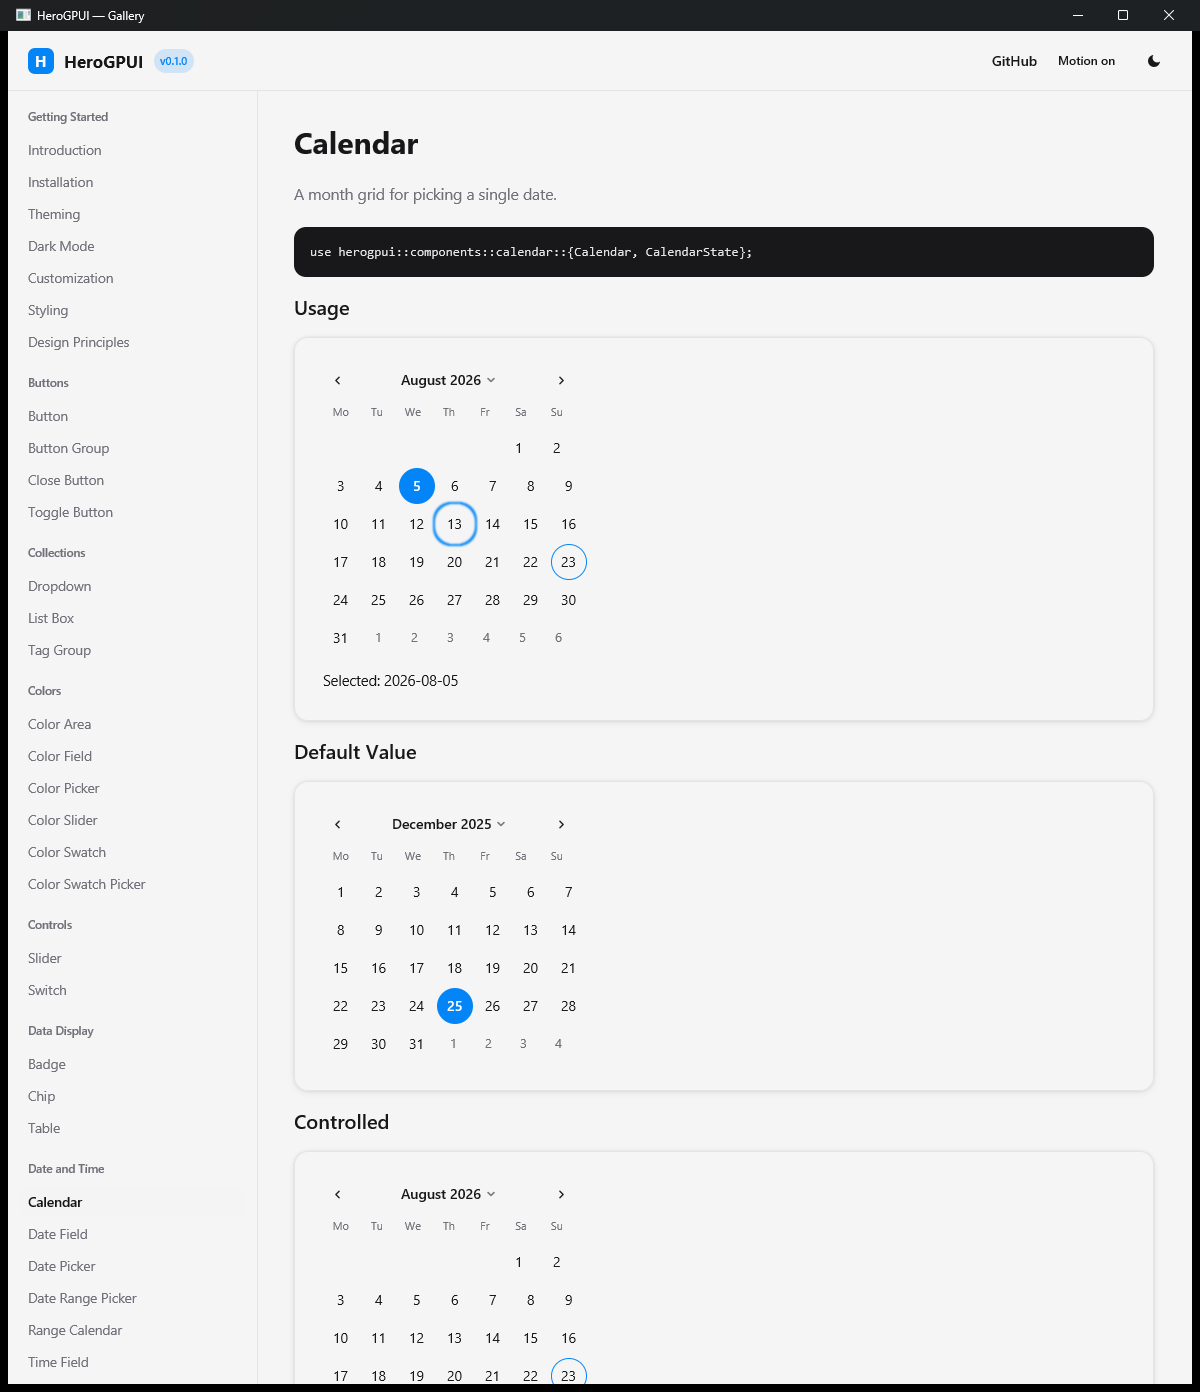
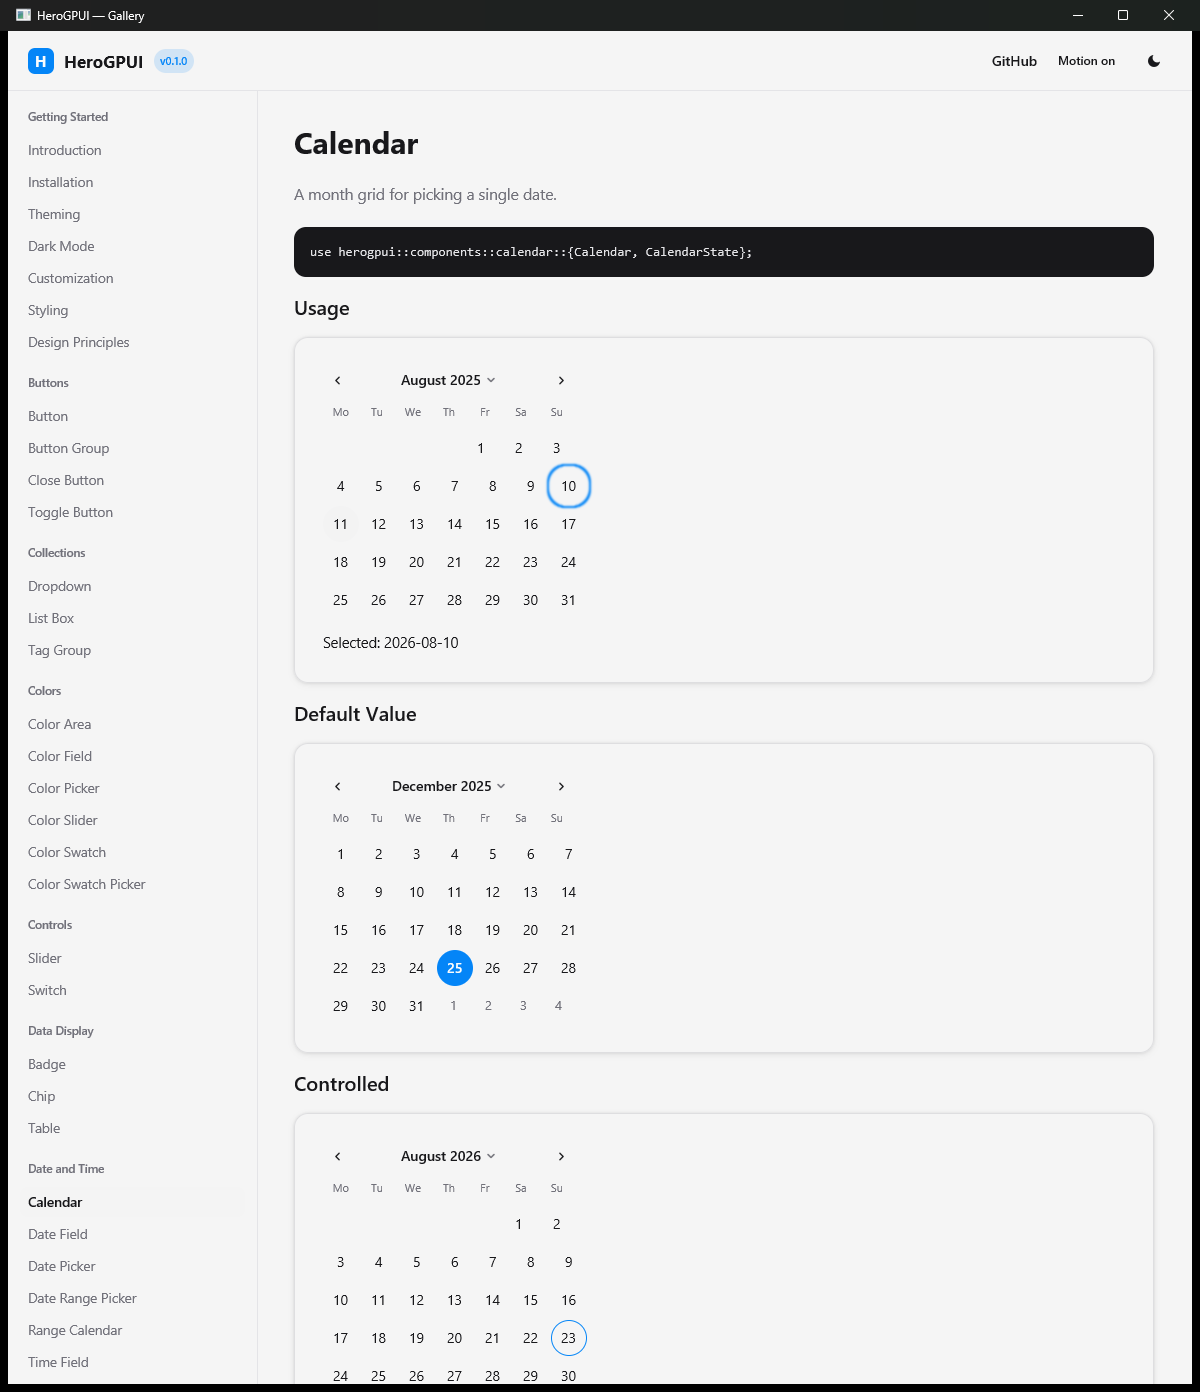
Move the calendar grid with its keyboard cursor, and page by year
Page Up moved the calendar's *cursor* and nothing else: the grid draws the
month the state's anchor points at, so paging past the month boundary walked an
invisible caret while August stayed on screen. Both calendars now move the
anchor with the cursor, which is React Aria keeping the focused date visible.

Shift+Page Up and Page Down page by a year, and they exposed a second bug:
`bump_month` takes a *direction*, not a count, so it stepped a single month
whatever the magnitude -- shift+Page Up moved from August 2026 to July 2026.
`add_months` counts in months from year zero, wrapping in one place, with tests
for both directions and the day clamp (31 March back one month is 28 February).

Verified by driving the app: Page Down moves the grid to September 2026, and
shift+Page Up to August 2025.

diff --git a/crates/herogpui-components/src/calendar.rs b/crates/herogpui-components/src/calendar.rs
@@ -145,13 +145,28 @@ fn prev_month(y: i32, m: u32) -> (i32, u32) {
     }
 }
 
-/// Steps a (year, month) pair by ±1.
+/// Steps a (year, month) pair by ±1. `dir` is a *direction*, not a count.
 pub fn bump_month(y: i32, m: u32, dir: i32) -> (i32, u32) {
     if dir >= 0 {
         next_month(y, m)
     } else {
         prev_month(y, m)
     }
+}
+
+/// The (year, month) `delta` months away, for any size of `delta`.
+///
+/// `bump_month` reads its argument as a direction and moves one month whatever
+/// the magnitude, which made shift+Page Up move a single month instead of a
+/// year. Counting in months from year zero keeps the wrap arithmetic in one
+/// place.
+pub fn add_months(year: i32, month: u32, delta: i32) -> (i32, u32) {
+    let total = i64::from(year) * 12 + i64::from(month) - 1 + i64::from(delta);
+    #[allow(clippy::cast_possible_truncation)]
+    let y = total.div_euclid(12) as i32;
+    #[allow(clippy::cast_possible_truncation, clippy::cast_sign_loss)]
+    let m = total.rem_euclid(12) as u32 + 1;
+    (y, m)
 }
 
 /// English month name for 1–12.
@@ -472,7 +487,7 @@ impl Calendar {
 /// `date` a month away, clamped to the target month's length -- 31 January plus
 /// a month is the end of February, not the 31st.
 pub(crate) fn month_step(date: Date, delta: i32) -> Date {
-    let (year, month) = bump_month(date.year, date.month, delta);
+    let (year, month) = add_months(date.year, date.month, delta);
     Date::new(year, month, date.day.min(days_in_month(year, month)))
 }
 
@@ -989,6 +1004,7 @@ impl RenderOnce for Calendar {
                 let from = *held.read(cx);
                 let at = from.unwrap_or(start);
                 let key = event.keystroke.key.as_str();
+                let shift = event.keystroke.modifiers.shift;
                 if matches!(key, "enter" | "space") {
                     if !constraints.allows(at) {
                         return;
@@ -1007,6 +1023,9 @@ impl RenderOnce for Calendar {
                     "right" => add_days(&at, 1),
                     "up" => add_days(&at, -7),
                     "down" => add_days(&at, 7),
+                    // React Aria pages by month, and by *year* with shift.
+                    "pageup" if shift => month_step(at, -12),
+                    "pagedown" if shift => month_step(at, 12),
                     "pageup" => month_step(at, -1),
                     "pagedown" => month_step(at, 1),
                     "home" => Date::new(at.year, at.month, 1),
@@ -1016,6 +1035,15 @@ impl RenderOnce for Calendar {
                 held.update(cx, |v, cx| {
                     *v = Some(next);
                     cx.notify();
+                });
+                // React Aria keeps the focused date visible: the grid follows
+                // the cursor across a month boundary. Without this, paging moved
+                // an invisible cursor and the month on screen never changed.
+                state.update(cx, |s, cx| {
+                    if s.view_year != next.year || s.view_month != next.month {
+                        s.set_anchor(next);
+                        cx.notify();
+                    }
                 });
                 if let Some(cb) = &on_focus {
                     cb(next, window, cx);
@@ -1146,5 +1174,39 @@ impl RenderOnce for Calendar {
         }
 
         root
+    }
+}
+
+#[cfg(test)]
+mod tests {
+    use super::*;
+
+    #[test]
+    fn add_months_wraps_the_year_both_ways() {
+        assert_eq!(add_months(2026, 8, 1), (2026, 9));
+        assert_eq!(add_months(2026, 12, 1), (2027, 1));
+        assert_eq!(add_months(2026, 1, -1), (2025, 12));
+    }
+
+    #[test]
+    fn add_months_counts_rather_than_stepping() {
+        // shift+Page Up is a *year*: `bump_month` moved one month whatever the
+        // magnitude, so this is the difference the calendar depends on.
+        assert_eq!(add_months(2026, 8, -12), (2025, 8));
+        assert_eq!(add_months(2026, 8, 12), (2027, 8));
+        assert_eq!(add_months(2026, 8, -20), (2024, 12));
+    }
+
+    #[test]
+    fn month_step_clamps_the_day_to_the_shorter_month() {
+        // 31 January back one month is the 28th, not the 31st of February.
+        assert_eq!(
+            month_step(Date::new(2026, 1, 31), -1),
+            Date::new(2025, 12, 31)
+        );
+        assert_eq!(
+            month_step(Date::new(2026, 3, 31), -1),
+            Date::new(2026, 2, 28)
+        );
     }
 }

diff --git a/.shots/behaviour_audit.py b/.shots/behaviour_audit.py
@@ -114,6 +114,11 @@ FOCUS_RETURN = ('Dropdown', 'Modal', 'Drawer', 'AlertDialog')
 # highlight walked off the bottom.
 SCROLL_INTO_VIEW = ('Select', 'ComboBox', 'Autocomplete', 'ListBox', 'Dropdown')
 
+# React Aria's calendar pages by month, by *year* with shift, and keeps the
+# focused date visible -- the grid follows the cursor across a month boundary.
+# Ours moved an invisible cursor: the month on screen never changed.
+CALENDAR_PAGING = ('Calendar', 'RangeCalendar')
+
 OVERLAY_DISMISS = (
     'Popover', 'Dropdown', 'Select', 'ComboBox', 'Autocomplete',
     'DatePicker', 'DateRangePicker', 'ColorPicker', 'Tooltip',
@@ -187,6 +192,8 @@ EVIDENCE = {
     ('TextArea', 'text-keys'): ('input.rs', r'fn vertical_target'),
     ('TextField', 'text-keys'): ('input.rs', r'key_char'),
     ('Dropdown', 'focus-return'): ('dropdown.rs', r'back_to_trigger'),
+    ('Calendar', 'calendar-paging'): ('calendar.rs', r'"pageup" if shift'),
+    ('RangeCalendar', 'calendar-paging'): ('range_calendar.rs', r'"pageup" if shift'),
     ('Select', 'scroll-into-view'): ('select.rs', r'scroll_to_item'),
     ('ComboBox', 'scroll-into-view'): ('combo_box.rs', r'scroll_to_item'),
     ('Autocomplete', 'scroll-into-view'): ('autocomplete.rs', r'scroll_to_item'),
@@ -262,11 +269,12 @@ def main():
     derived = dict.fromkeys(
         ARROW_NAV + REMOVE_KEY + OVERLAY_DISMISS + SPIN_KEYS + FOCUS_OPEN
         + TEXT_KEYS + POINTER_CARET + SORT_KEYS + FOCUS_RETURN + SCROLL_INTO_VIEW
+        + CALENDAR_PAGING
     )
     for page in derived:
         for claim in ('arrow-nav', 'remove-key', 'dismiss', 'spin-keys', 'focus-open',
                       'text-keys', 'pointer-caret', 'sort-keys', 'focus-return',
-                      'scroll-into-view'):
+                      'scroll-into-view', 'calendar-paging'):
             key = (page, claim)
             # A derived claim can be excused too, and the reason has to reach
             # the breakdown: reading only EVIDENCE skipped `TextArea`'s

diff --git a/crates/herogpui-components/src/range_calendar.rs b/crates/herogpui-components/src/range_calendar.rs
@@ -699,6 +699,7 @@ impl RenderOnce for RangeCalendar {
                 let from = *held.read(cx);
                 let at = from.unwrap_or(from_start);
                 let key = event.keystroke.key.as_str();
+                let shift = event.keystroke.modifiers.shift;
                 if matches!(key, "enter" | "space") {
                     if !selectable.allows(at) {
                         return;
@@ -718,6 +719,9 @@ impl RenderOnce for RangeCalendar {
                     "right" => add_days(&at, 1),
                     "up" => add_days(&at, -7),
                     "down" => add_days(&at, 7),
+                    // React Aria pages by month, and by *year* with shift.
+                    "pageup" if shift => month_step(at, -12),
+                    "pagedown" if shift => month_step(at, 12),
                     "pageup" => month_step(at, -1),
                     "pagedown" => month_step(at, 1),
                     "home" => Date::new(at.year, at.month, 1),
@@ -727,6 +731,14 @@ impl RenderOnce for RangeCalendar {
                 held.update(cx, |v, cx| {
                     *v = Some(next);
                     cx.notify();
+                });
+                // The grid follows the cursor across a month boundary, the way
+                // React Aria keeps the focused date visible.
+                state.update(cx, |s, cx| {
+                    if s.view_year != next.year || s.view_month != next.month {
+                        s.set_anchor(next);
+                        cx.notify();
+                    }
                 });
                 if let Some(cb) = &on_focus {
                     cb(next, window, cx);
